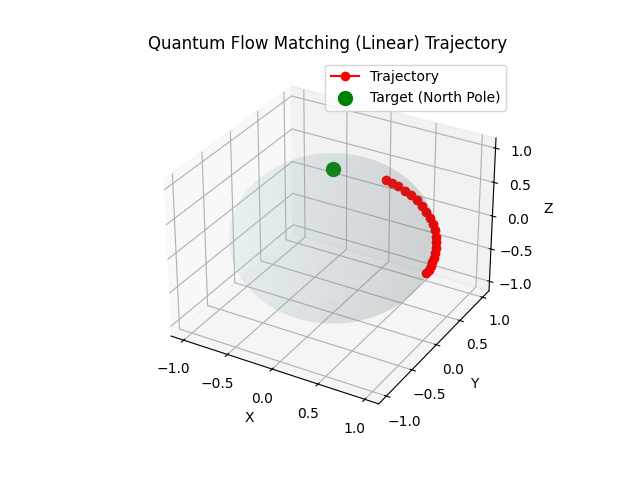
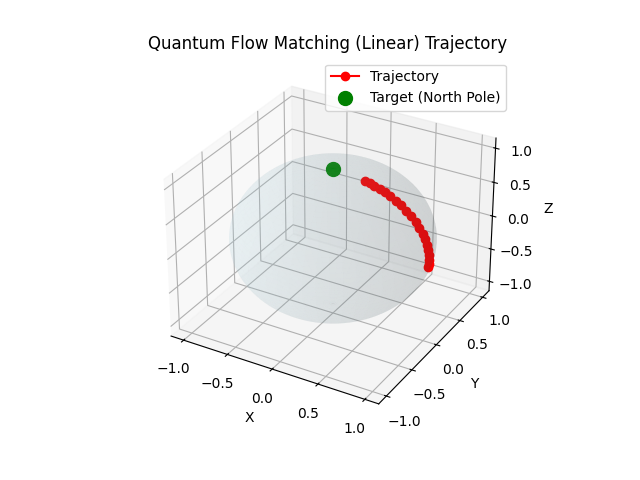
add tolerance for target distribution

Changed region(s): [[0.5625, 0.3438, 0.6875, 0.5938]]

diff --git a/quantum_FM_prototype.py b/quantum_FM_prototype.py
@@ -31,11 +31,26 @@ def angles_to_bloch(theta, phi):
     return torch.stack([x, y, z], dim=-1)
 
 def random_bloch_vectors(n):
+    """均匀采样 Bloch 球表面"""
     u = torch.rand(n, dtype=dtype)
     v = torch.rand(n, dtype=dtype)
     theta = torch.acos(1 - 2 * u)
     phi = 2 * np.pi * v
     return angles_to_bloch(theta, phi).to(dtype)
+
+def random_bloch_vectors_polar_cap(n, z_min=0.8):
+    """采样北极帽区域 z >= z_min，保证返回 n 个点"""
+    samples = []
+    while len(samples) < n:
+        vecs = random_bloch_vectors(n)
+        mask = vecs[:, 2] >= z_min
+        filtered = vecs[mask]
+        if filtered.shape[0] > 0:
+            if len(samples) == 0:
+                samples = filtered
+            else:
+                samples = torch.cat([samples, filtered], dim=0)
+    return samples[:n]
 
 # ---------------------
 # 速度场网络
@@ -46,7 +61,7 @@ class QuantumVelocityField(nn.Module):
         self.net = nn.Sequential(
             nn.Linear(4, hidden),
             nn.Tanh(),
-            nn.Linear(hidden, 3)  # 输出3维速度
+            nn.Linear(hidden, 3)  # 输出速度
         )
     def forward(self, t, bloch):
         if t.dim() == 1:
@@ -57,24 +72,24 @@ class QuantumVelocityField(nn.Module):
 velocity_field = QuantumVelocityField()
 
 # ---------------------
-# Loss = 速度场 MSE
+# 训练（速度场 MSE）
 # ---------------------
 optimizer = optim.Adam(velocity_field.parameters(), lr=lr)
 loss_history = []
 
 for epoch in range(epochs):
-    # 采样初态、目标态
+    # 初态 & 目标态
     x0 = random_bloch_vectors(batch_size)
-    x1 = torch.tensor([[0.,0.,1.]], dtype=dtype).repeat(batch_size,1)
+    x1 = random_bloch_vectors_polar_cap(batch_size, z_min=0.8)
 
-    # 采样时间
+    # 时间
     t = torch.rand(batch_size, 1, dtype=dtype)
 
     # 插值位置
     xt = (1 - t) * x0 + t * x1
 
     # 目标速度
-    v_star = x1 - x0  # 线性插值速度恒定
+    v_star = x1 - x0  # 线性插值速度
 
     # 预测速度
     v_pred = velocity_field(t.squeeze(-1), xt)
@@ -94,43 +109,28 @@ for epoch in range(epochs):
 # 保存Loss曲线
 # ---------------------
 script_dir = os.path.dirname(os.path.abspath(__file__))
-loss_path = os.path.join(script_dir, "Output", "quantum_flow_loss_linear.png")
+loss_path = os.path.join(script_dir, "Output", "quantum_flow_loss_linear_cap.png")
 os.makedirs(os.path.dirname(loss_path), exist_ok=True)
 plt.figure()
 plt.plot(loss_history)
 plt.xlabel("Epoch")
 plt.ylabel("Velocity MSE Loss")
-plt.title("Quantum Flow Matching (Linear) Training Loss")
+plt.title("Quantum Flow Matching (Linear Cap) Training Loss")
 plt.savefig(loss_path)
 print(f"Loss curve saved to {loss_path}")
 
 # ---------------------
-# 测试轨迹 & 可视化 Bloch 球
+# 轨迹可视化（多起点）
 # ---------------------
 from mpl_toolkits.mplot3d import Axes3D
 
-# 初态
-x0_test = random_bloch_vectors(1)[0]
-x1_test = torch.tensor([0.,0.,1.], dtype=dtype)
-timesteps = np.linspace(0,1,20)
-trajectory = []
+n_traj = 5  # 画5条轨迹
+timesteps = np.linspace(0, 1, 20)
 
-# 模拟流动
-xt = x0_test
-for ti in timesteps:
-    # 预测速度并更新位置（Euler积分）
-    v_pred = velocity_field(torch.tensor([ti], dtype=dtype), xt.unsqueeze(0)).squeeze(0)
-    dt = 1.0/len(timesteps)
-    xt = xt + v_pred * dt
-    # 归一化到Bloch球表面（避免漂移）
-    xt = xt / torch.norm(xt)
-    trajectory.append(xt.detach().numpy())
-
-trajectory = np.array(trajectory)
-
-# 绘制Bloch球
 fig = plt.figure()
 ax = fig.add_subplot(111, projection='3d')
+
+# 绘制 Bloch 球表面
 u = np.linspace(0, 2*np.pi, 100)
 v = np.linspace(0, np.pi, 100)
 x = np.outer(np.cos(u), np.sin(v))
@@ -138,16 +138,32 @@ y = np.outer(np.sin(u), np.sin(v))
 z = np.outer(np.ones(np.size(u)), np.cos(v))
 ax.plot_surface(x, y, z, color='lightblue', alpha=0.1)
 
-# 轨迹
-ax.plot(trajectory[:,0], trajectory[:,1], trajectory[:,2], 'r-o', label="Trajectory")
-ax.scatter([0], [0], [1], color='g', s=100, label="Target (North Pole)")
+# 绘制多条轨迹
+with torch.no_grad():
+    for _ in range(n_traj):
+        x0_test = random_bloch_vectors(1)[0]
+        xt = x0_test.clone()
+        traj_points = []
+        for ti in timesteps:
+            v_pred = velocity_field(torch.tensor([ti], dtype=dtype), xt.unsqueeze(0)).squeeze(0)
+            dt = 1.0 / len(timesteps)
+            xt = xt + v_pred * dt
+            xt = xt / torch.norm(xt)  # 归一化到Bloch球
+            traj_points.append(xt.numpy())
+        traj_points = np.array(traj_points)
+        ax.plot(traj_points[:,0], traj_points[:,1], traj_points[:,2], 'r-', alpha=0.8)
+        ax.scatter(traj_points[:,0], traj_points[:,1], traj_points[:,2], c='r', s=20)
+
+# 目标区域标记（北极帽 z>0.8）
+cap_points = random_bloch_vectors_polar_cap(100, z_min=0.8).numpy()
+ax.scatter(cap_points[:,0], cap_points[:,1], cap_points[:,2], c='g', s=10, alpha=0.5, label="Target cap")
 
 ax.set_xlabel('X')
 ax.set_ylabel('Y')
 ax.set_zlabel('Z')
-ax.set_title('Quantum Flow Matching (Linear) Trajectory')
+ax.set_title('Quantum Flow Matching Trajectories (Polar Cap)')
 ax.legend()
 
-traj_path = os.path.join(script_dir, "Output", "bloch_trajectory_linear.png")
+traj_path = os.path.join(script_dir, "Output", "bloch_trajectory_linear_cap.png")
 plt.savefig(traj_path)
 print(f"Bloch trajectory saved to {traj_path}")
